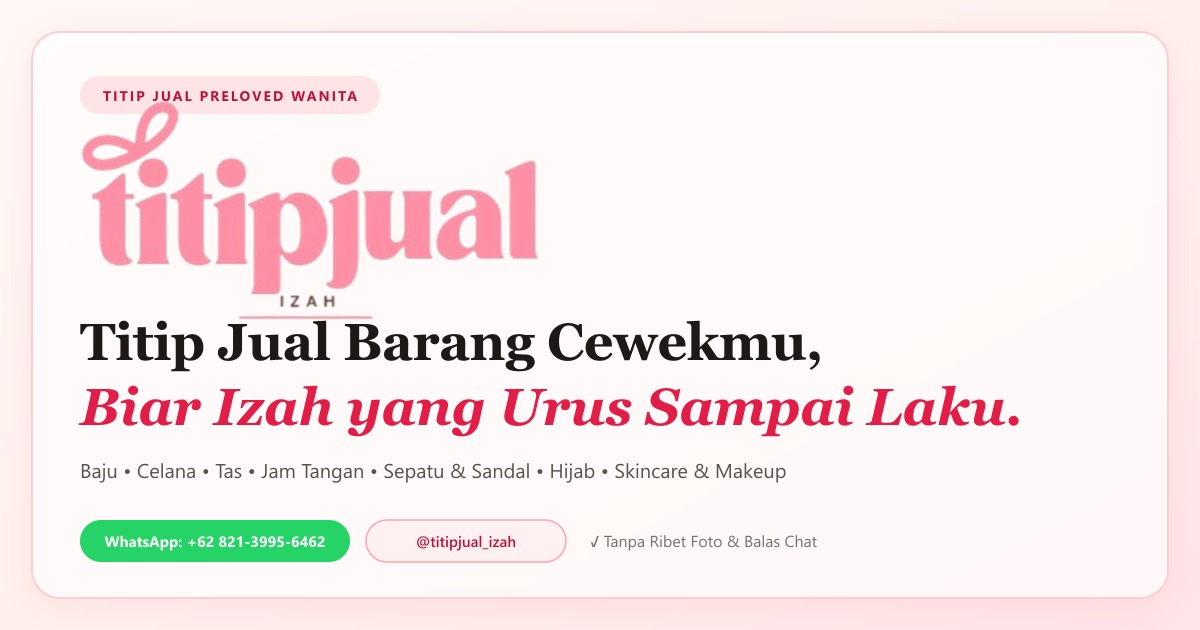
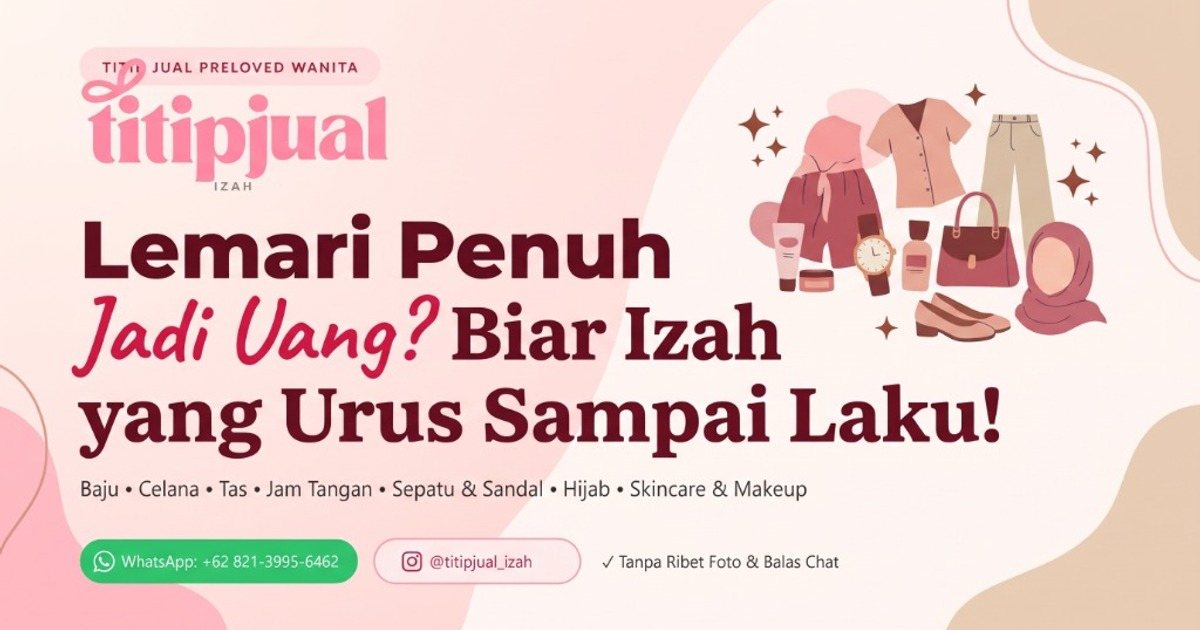
Update hero headline and use uploaded official OG image

diff --git a/src/config/site.ts b/src/config/site.ts
@@ -56,7 +56,7 @@ export const siteConfig = {
   // ==========================================
   brandName: 'Titip Jual Izah',
   ownerName: 'Kak Izah',
-  tagline: 'Titip jual barang cewekmu, biar Izah yang urus sampai laku',
+  tagline: 'Lemari Penuh Jadi Uang? Biar Izah yang Urus Sampai Laku!',
   description: 'Layanan titip jual barang cewek terpercaya oleh Kak Izah: baju, tas, sepatu, hijab, sampai skincare. Praktis tanpa ribet foto ulang, balas ratusan chat, atau COD.',
   siteUrl: 'https://titipjualizah.vercel.app',
 
